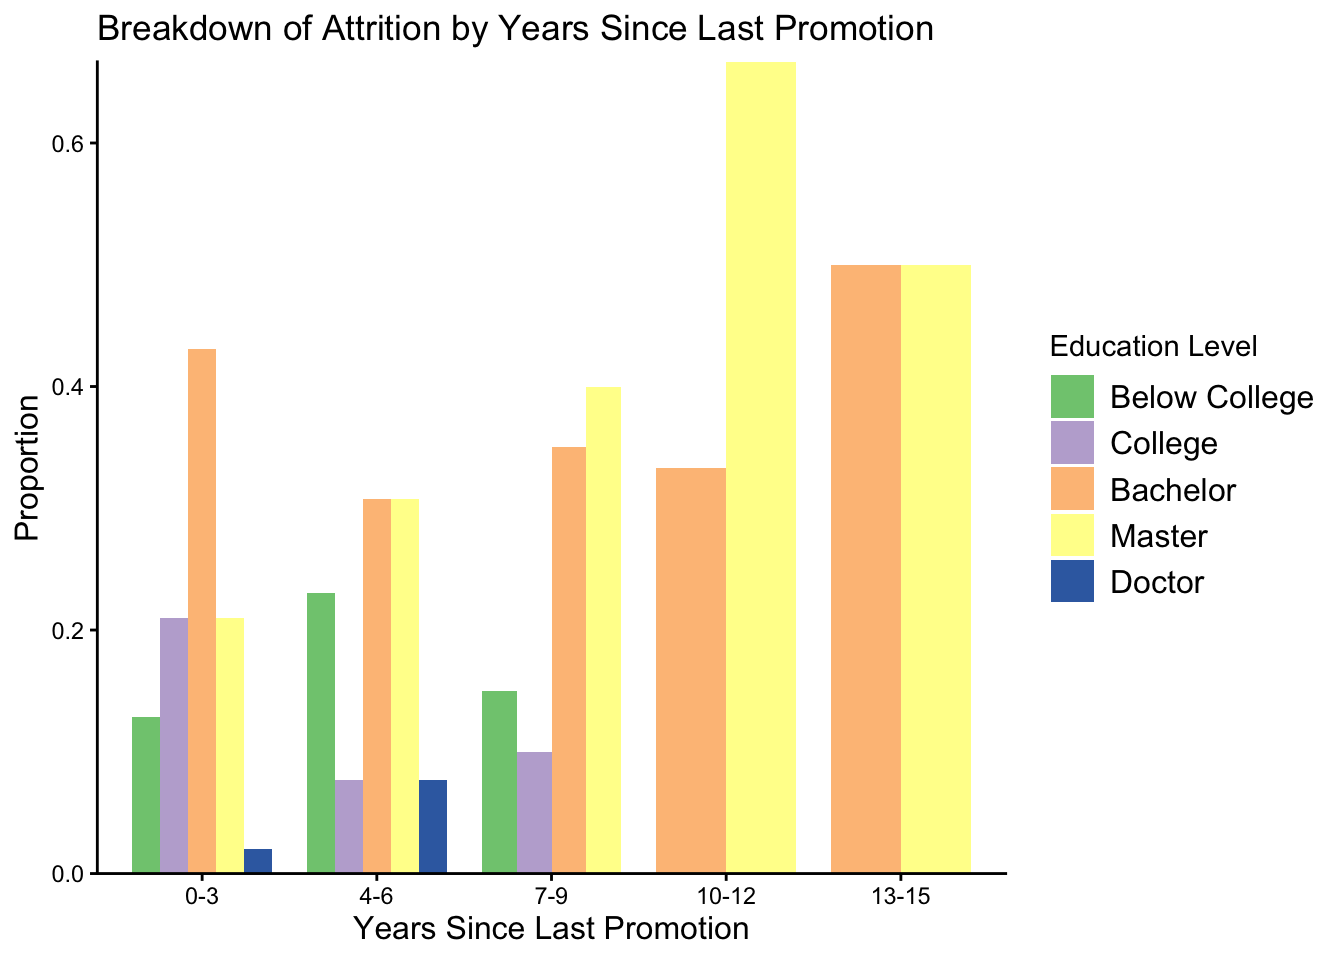
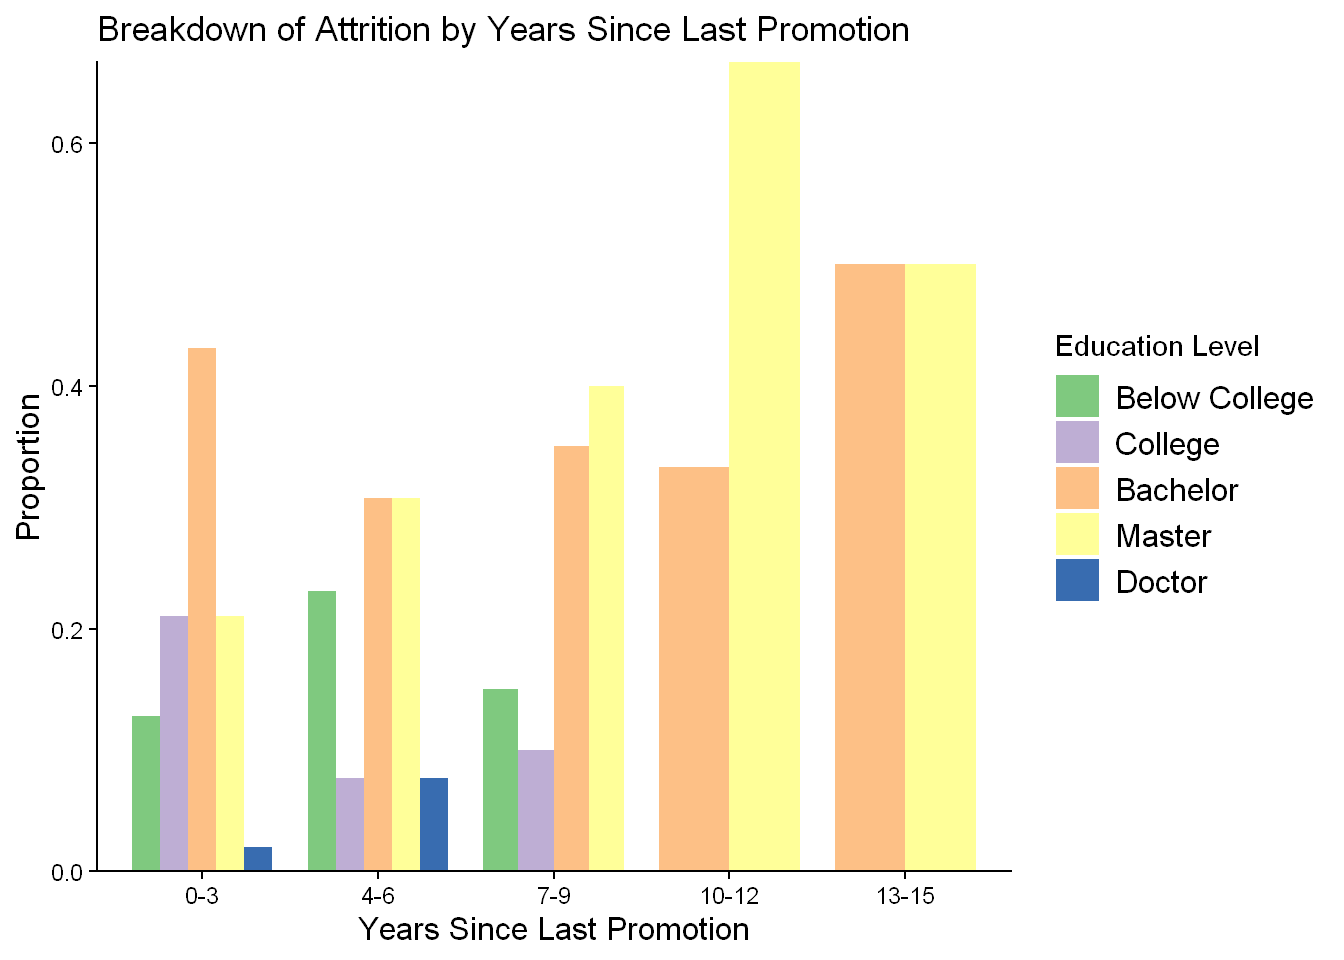
Created two data branches

diff --git a/Employee Attrition Exploration & Analyses.html b/Employee Attrition Exploration & Analyses.html
@@ -2,7 +2,7 @@
 <html xmlns="http://www.w3.org/1999/xhtml" lang="en" xml:lang="en"><head>
 
 <meta charset="utf-8">
-<meta name="generator" content="quarto-1.8.25">
+<meta name="generator" content="quarto-1.9.36">
 
 <meta name="viewport" content="width=device-width, initial-scale=1.0, user-scalable=yes">
 
@@ -10,6 +10,9 @@
 
 <title>Employee Attrition Exploration &amp; Analyses</title>
 <style>
+/* Default styles provided by pandoc.
+** See https://pandoc.org/MANUAL.html#variables-for-html for config info.
+*/
 code{white-space: pre-wrap;}
 span.smallcaps{font-variant: small-caps;}
 div.columns{display: flex; gap: min(4vw, 1.5em);}
@@ -62,15 +65,14 @@ pre > code.sourceCode > span > a:first-child::before { text-decoration: underlin
 <script src="Employee Attrition Exploration &amp; Analyses_files/libs/clipboard/clipboard.min.js"></script>
 <script src="Employee Attrition Exploration &amp; Analyses_files/libs/quarto-html/quarto.js" type="module"></script>
 <script src="Employee Attrition Exploration &amp; Analyses_files/libs/quarto-html/tabsets/tabsets.js" type="module"></script>
-<script src="Employee Attrition Exploration &amp; Analyses_files/libs/quarto-html/axe/axe-check.js" type="module"></script>
 <script src="Employee Attrition Exploration &amp; Analyses_files/libs/quarto-html/popper.min.js"></script>
 <script src="Employee Attrition Exploration &amp; Analyses_files/libs/quarto-html/tippy.umd.min.js"></script>
 <script src="Employee Attrition Exploration &amp; Analyses_files/libs/quarto-html/anchor.min.js"></script>
 <link href="Employee Attrition Exploration &amp; Analyses_files/libs/quarto-html/tippy.css" rel="stylesheet">
-<link href="Employee Attrition Exploration &amp; Analyses_files/libs/quarto-html/quarto-syntax-highlighting-7b89279ff1a6dce999919e0e67d4d9ec.css" rel="stylesheet" id="quarto-text-highlighting-styles">
+<link href="Employee Attrition Exploration &amp; Analyses_files/libs/quarto-html/quarto-syntax-highlighting-845c23b38eaddc0f92fda52bfe77a8c8.css" rel="stylesheet" id="quarto-text-highlighting-styles">
 <script src="Employee Attrition Exploration &amp; Analyses_files/libs/bootstrap/bootstrap.min.js"></script>
 <link href="Employee Attrition Exploration &amp; Analyses_files/libs/bootstrap/bootstrap-icons.css" rel="stylesheet">
-<link href="Employee Attrition Exploration &amp; Analyses_files/libs/bootstrap/bootstrap-07856ccd07157181b6c57ddbe7d8c2c1.min.css" rel="stylesheet" append-hash="true" id="quarto-bootstrap" data-mode="light">
+<link href="Employee Attrition Exploration &amp; Analyses_files/libs/bootstrap/bootstrap-d359420eca839bd29160a783b9e344c9.min.css" rel="stylesheet" append-hash="true" id="quarto-bootstrap" data-mode="light">
 
 
 </head>
@@ -93,6 +95,7 @@ pre > code.sourceCode > span > a:first-child::before { text-decoration: underlin
   <ul class="collapse">
   <li><a href="#engagement-insights" id="toc-engagement-insights" class="nav-link" data-scroll-target="#engagement-insights">Engagement Insights</a></li>
   <li><a href="#education-insights" id="toc-education-insights" class="nav-link" data-scroll-target="#education-insights">Education Insights</a></li>
+  <li><a href="#commute-and-satisfaction" id="toc-commute-and-satisfaction" class="nav-link" data-scroll-target="#commute-and-satisfaction">Commute and Satisfaction</a></li>
   </ul></li>
   </ul>
 </nav>
@@ -196,23 +199,43 @@ $ YearsWithCurrManager     &lt;dbl&gt; 5, 7, 0, 0, 2, 6, 0, 0, 8, 7, 3, 8, 3, 2,
 <span id="cb5-4"><a href="#cb5-4" aria-hidden="true" tabindex="-1"></a><span class="co"># Removed standardized columns and irrelevant variables to following analyses</span></span>
 <span id="cb5-5"><a href="#cb5-5" aria-hidden="true" tabindex="-1"></a>  <span class="fu">select</span>(<span class="sc">-</span><span class="fu">any_of</span>(<span class="fu">c</span>(<span class="st">"employee_count"</span>, <span class="st">"standard_hours"</span>, <span class="st">"over18"</span>)))</span>
 <span id="cb5-6"><a href="#cb5-6" aria-hidden="true" tabindex="-1"></a></span>
-<span id="cb5-7"><a href="#cb5-7" aria-hidden="true" tabindex="-1"></a></span>
-<span id="cb5-8"><a href="#cb5-8" aria-hidden="true" tabindex="-1"></a>hr_data <span class="ot">&lt;-</span> hr_data <span class="sc">%&gt;%</span> </span>
-<span id="cb5-9"><a href="#cb5-9" aria-hidden="true" tabindex="-1"></a><span class="co"># Convert appropriate variables into ordinal factors  </span></span>
-<span id="cb5-10"><a href="#cb5-10" aria-hidden="true" tabindex="-1"></a>  <span class="fu">mutate</span>(<span class="at">job_involvement =</span> <span class="fu">factor</span>(job_involvement, </span>
-<span id="cb5-11"><a href="#cb5-11" aria-hidden="true" tabindex="-1"></a>                                  <span class="at">levels =</span> <span class="dv">1</span><span class="sc">:</span><span class="dv">4</span>, </span>
-<span id="cb5-12"><a href="#cb5-12" aria-hidden="true" tabindex="-1"></a>                                  <span class="at">labels =</span> <span class="fu">c</span>(<span class="st">"Low"</span>, <span class="st">"Medium"</span>, <span class="st">"High"</span>, <span class="st">"Very High"</span>)), </span>
-<span id="cb5-13"><a href="#cb5-13" aria-hidden="true" tabindex="-1"></a>         <span class="at">job_satisfaction =</span> <span class="fu">factor</span>(job_satisfaction, </span>
-<span id="cb5-14"><a href="#cb5-14" aria-hidden="true" tabindex="-1"></a>                                   <span class="at">levels =</span> <span class="dv">1</span><span class="sc">:</span><span class="dv">4</span>, </span>
-<span id="cb5-15"><a href="#cb5-15" aria-hidden="true" tabindex="-1"></a>                                   <span class="at">labels =</span> <span class="fu">c</span>(<span class="st">"Low"</span>, <span class="st">"Medium"</span>, <span class="st">"High"</span>, <span class="st">"Very High"</span>)),</span>
-<span id="cb5-16"><a href="#cb5-16" aria-hidden="true" tabindex="-1"></a>         <span class="at">education =</span> <span class="fu">factor</span>(education, </span>
-<span id="cb5-17"><a href="#cb5-17" aria-hidden="true" tabindex="-1"></a>                                  <span class="at">levels =</span> <span class="dv">1</span><span class="sc">:</span><span class="dv">5</span>,</span>
-<span id="cb5-18"><a href="#cb5-18" aria-hidden="true" tabindex="-1"></a>                                  <span class="at">labels =</span> <span class="fu">c</span>(<span class="st">"Below College"</span>, <span class="st">"College"</span>, </span>
-<span id="cb5-19"><a href="#cb5-19" aria-hidden="true" tabindex="-1"></a>                                             <span class="st">"Bachelor"</span>, <span class="st">"Master"</span>, <span class="st">"Doctor"</span>))</span>
-<span id="cb5-20"><a href="#cb5-20" aria-hidden="true" tabindex="-1"></a>  ) <span class="sc">%&gt;%</span> </span>
-<span id="cb5-21"><a href="#cb5-21" aria-hidden="true" tabindex="-1"></a><span class="co"># Convert appropriate variables into nominal factors</span></span>
-<span id="cb5-22"><a href="#cb5-22" aria-hidden="true" tabindex="-1"></a>  <span class="fu">mutate</span>(<span class="fu">across</span>(<span class="fu">c</span>(attrition, business_travel, department, education_field, </span>
-<span id="cb5-23"><a href="#cb5-23" aria-hidden="true" tabindex="-1"></a>                  gender, job_role, marital_status, over_time), as.factor))</span></code></pre></div><button title="Copy to Clipboard" class="code-copy-button"><i class="bi"></i></button></div>
+<span id="cb5-7"><a href="#cb5-7" aria-hidden="true" tabindex="-1"></a><span class="co"># Creating vector for following ordinal factor creation, all have the same factor levels and labels</span></span>
+<span id="cb5-8"><a href="#cb5-8" aria-hidden="true" tabindex="-1"></a>satisfaction_vars <span class="ot">&lt;-</span> <span class="fu">c</span>(<span class="st">"job_involvement"</span>, <span class="st">"job_satisfaction"</span>, </span>
+<span id="cb5-9"><a href="#cb5-9" aria-hidden="true" tabindex="-1"></a>                       <span class="st">"environment_satisfaction"</span>, <span class="st">"relationship_satisfaction"</span>)</span>
+<span id="cb5-10"><a href="#cb5-10" aria-hidden="true" tabindex="-1"></a></span>
+<span id="cb5-11"><a href="#cb5-11" aria-hidden="true" tabindex="-1"></a>hr_data <span class="ot">&lt;-</span> hr_data <span class="sc">%&gt;%</span> </span>
+<span id="cb5-12"><a href="#cb5-12" aria-hidden="true" tabindex="-1"></a>  <span class="fu">mutate</span>(</span>
+<span id="cb5-13"><a href="#cb5-13" aria-hidden="true" tabindex="-1"></a>    <span class="co"># Ordinal factor creation for satisfaction variables</span></span>
+<span id="cb5-14"><a href="#cb5-14" aria-hidden="true" tabindex="-1"></a>    <span class="fu">across</span>(</span>
+<span id="cb5-15"><a href="#cb5-15" aria-hidden="true" tabindex="-1"></a>      <span class="fu">all_of</span>(satisfaction_vars),</span>
+<span id="cb5-16"><a href="#cb5-16" aria-hidden="true" tabindex="-1"></a>      <span class="sc">~</span> <span class="fu">factor</span>(.,</span>
+<span id="cb5-17"><a href="#cb5-17" aria-hidden="true" tabindex="-1"></a>               <span class="at">levels =</span> <span class="dv">1</span><span class="sc">:</span><span class="dv">4</span>,</span>
+<span id="cb5-18"><a href="#cb5-18" aria-hidden="true" tabindex="-1"></a>               <span class="at">labels =</span> <span class="fu">c</span>(<span class="st">"Low"</span>, <span class="st">"Medium"</span>, <span class="st">"High"</span>, <span class="st">"Very High"</span>),</span>
+<span id="cb5-19"><a href="#cb5-19" aria-hidden="true" tabindex="-1"></a>               <span class="at">ordered =</span> <span class="cn">TRUE</span>)</span>
+<span id="cb5-20"><a href="#cb5-20" aria-hidden="true" tabindex="-1"></a>    ),</span>
+<span id="cb5-21"><a href="#cb5-21" aria-hidden="true" tabindex="-1"></a>    <span class="co"># Ordinal factor for work life balance (has different labels than satisfaction)</span></span>
+<span id="cb5-22"><a href="#cb5-22" aria-hidden="true" tabindex="-1"></a>    <span class="at">work_life_balance =</span> <span class="fu">factor</span>(</span>
+<span id="cb5-23"><a href="#cb5-23" aria-hidden="true" tabindex="-1"></a>      work_life_balance,</span>
+<span id="cb5-24"><a href="#cb5-24" aria-hidden="true" tabindex="-1"></a>      <span class="at">levels =</span> <span class="dv">1</span><span class="sc">:</span><span class="dv">4</span>,</span>
+<span id="cb5-25"><a href="#cb5-25" aria-hidden="true" tabindex="-1"></a>      <span class="at">labels =</span> <span class="fu">c</span>(<span class="st">"Bad"</span>, <span class="st">"Good"</span>, <span class="st">"Better"</span>, <span class="st">"Best"</span>),</span>
+<span id="cb5-26"><a href="#cb5-26" aria-hidden="true" tabindex="-1"></a>      <span class="at">ordered =</span> <span class="cn">TRUE</span></span>
+<span id="cb5-27"><a href="#cb5-27" aria-hidden="true" tabindex="-1"></a>    ),</span>
+<span id="cb5-28"><a href="#cb5-28" aria-hidden="true" tabindex="-1"></a>    <span class="co"># Ordinal factor for education </span></span>
+<span id="cb5-29"><a href="#cb5-29" aria-hidden="true" tabindex="-1"></a>    <span class="at">education =</span> <span class="fu">factor</span>(</span>
+<span id="cb5-30"><a href="#cb5-30" aria-hidden="true" tabindex="-1"></a>      education,</span>
+<span id="cb5-31"><a href="#cb5-31" aria-hidden="true" tabindex="-1"></a>      <span class="at">levels =</span> <span class="dv">1</span><span class="sc">:</span><span class="dv">5</span>,</span>
+<span id="cb5-32"><a href="#cb5-32" aria-hidden="true" tabindex="-1"></a>      <span class="at">labels =</span> <span class="fu">c</span>(<span class="st">"Below College"</span>, <span class="st">"College"</span>,</span>
+<span id="cb5-33"><a href="#cb5-33" aria-hidden="true" tabindex="-1"></a>                 <span class="st">"Bachelor"</span>, <span class="st">"Master"</span>, <span class="st">"Doctor"</span>),</span>
+<span id="cb5-34"><a href="#cb5-34" aria-hidden="true" tabindex="-1"></a>      <span class="at">ordered =</span> <span class="cn">TRUE</span></span>
+<span id="cb5-35"><a href="#cb5-35" aria-hidden="true" tabindex="-1"></a>    ),</span>
+<span id="cb5-36"><a href="#cb5-36" aria-hidden="true" tabindex="-1"></a>    </span>
+<span id="cb5-37"><a href="#cb5-37" aria-hidden="true" tabindex="-1"></a>    <span class="co"># Nominal categorical variables</span></span>
+<span id="cb5-38"><a href="#cb5-38" aria-hidden="true" tabindex="-1"></a>    <span class="fu">across</span>(</span>
+<span id="cb5-39"><a href="#cb5-39" aria-hidden="true" tabindex="-1"></a>      <span class="fu">c</span>(attrition, business_travel, department, education_field,</span>
+<span id="cb5-40"><a href="#cb5-40" aria-hidden="true" tabindex="-1"></a>        gender, job_role, marital_status, over_time),</span>
+<span id="cb5-41"><a href="#cb5-41" aria-hidden="true" tabindex="-1"></a>      as.factor</span>
+<span id="cb5-42"><a href="#cb5-42" aria-hidden="true" tabindex="-1"></a>    )</span>
+<span id="cb5-43"><a href="#cb5-43" aria-hidden="true" tabindex="-1"></a>  )</span></code></pre></div><button title="Copy to Clipboard" class="code-copy-button"><i class="bi"></i></button></div>
 </div>
 </section>
 <section id="analyses" class="level1">
@@ -486,6 +509,15 @@ $ YearsWithCurrManager     &lt;dbl&gt; 5, 7, 0, 0, 2, 6, 0, 0, 8, 7, 3, 8, 3, 2,
 </div>
 </div>
 </section>
+</section>
+<section id="commute-and-satisfaction" class="level2">
+<h2 class="anchored" data-anchor-id="commute-and-satisfaction">Commute and Satisfaction</h2>
+<p>How does Commute influence Satisfaction?</p>
+<div class="cell">
+<div class="code-copy-outer-scaffold"><div class="sourceCode cell-code" id="cb12"><pre class="sourceCode r code-with-copy"><code class="sourceCode r"><span id="cb12-1"><a href="#cb12-1" aria-hidden="true" tabindex="-1"></a>commute_data <span class="ot">&lt;-</span> hr_data <span class="sc">%&gt;%</span> </span>
+<span id="cb12-2"><a href="#cb12-2" aria-hidden="true" tabindex="-1"></a>  <span class="fu">select</span>(employee_number, distance_from_home, </span>
+<span id="cb12-3"><a href="#cb12-3" aria-hidden="true" tabindex="-1"></a>         <span class="fu">ends_with</span>(<span class="st">"_satisfaction"</span>), work_life_balance, attrition)</span></code></pre></div><button title="Copy to Clipboard" class="code-copy-button"><i class="bi"></i></button></div>
+</div>
 </section>
 </section>
 